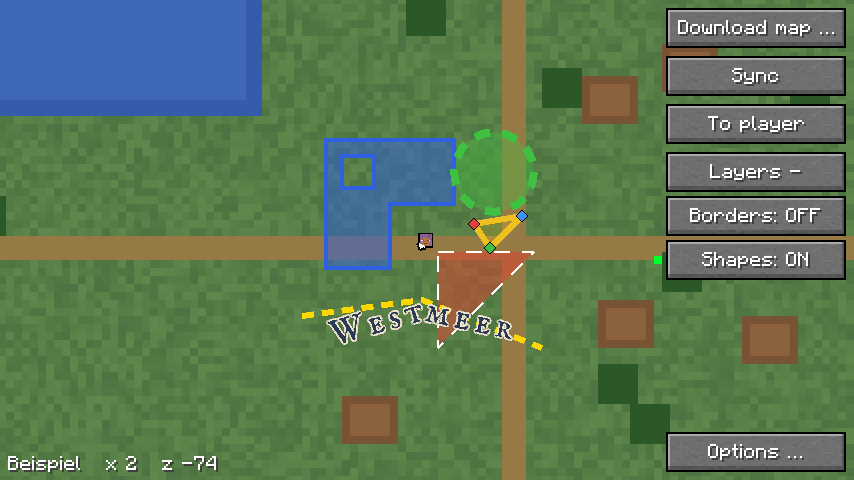
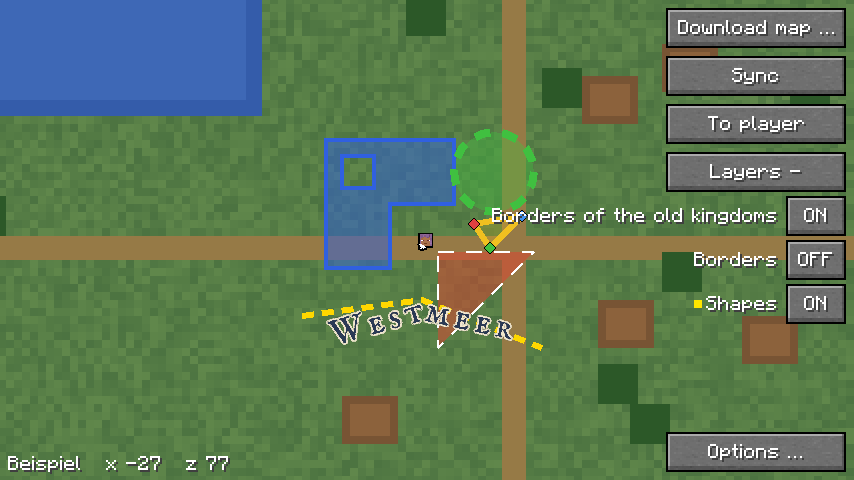
Ebenen auf der Vollbildkarte: Name als Überschrift, der Knopf schaltet nur (mod#103)
Je Ebene rechts ein Knopf „An“/„Aus“, links davor ihr Name als Text. Ein
Doppelklick auf den Namen heftet alles der Ebene an oder löst es; der Knopf
schaltet nur, der Doppelklick darauf heftet nichts mehr an.

Changed region(s): [[0.5785, 0.4062, 1.0, 0.6875], [0.1522, 0.9375, 0.274, 1.0]]

diff --git a/src/main/java/com/nekyia/heroicmap/Karte.java b/src/main/java/com/nekyia/heroicmap/Karte.java
@@ -40,6 +40,8 @@ final class Karte extends Screen {
     private static final int TEXT = 0xFFFFFFFF;
     /** Breite der Knöpfe in Einheiten des GUI. */
     private static final int KNOPF = 90;
+    /** Breite des Knopfs „An“/„Aus“ einer Ebene; ihr Name steht links daneben. */
+    private static final int AN_AUS = 30;
     /** Höhe eines Eintrags im Menü nach Rechtsklick. */
     private static final int ZEILE = 14;
     /** Abstand der Marken vom Rand des Schirms; Platz für den Namen über einem Kopf. */
@@ -136,11 +138,11 @@ final class Karte extends Screen {
     /** Für welche Schalter alles angeheftet ist, gerechnet bei diesem Stand der Ebenen und der Wegpunkte. */
     private boolean[] ganz = new boolean[0];
     private int ganzEbenen = -1, ganzWegpunkte = -1;
-    /** Der Schalter unter dem letzten Klick; ein Doppelklick darauf heftet die ganze Ebene an. */
+    /** Die Ebene unter dem letzten Klick auf eine Überschrift; ein Doppelklick darauf heftet die ganze Ebene an. */
     private Schalter letzterSchalter;
 
-    /** Ein Schalter der Liste und die Kennung seiner Ebene. */
-    private record Schalter(CycleButton<Boolean> knopf, String ebene) {
+    /** Eine Zeile der Liste: der Knopf „An“/„Aus“, die Kennung seiner Ebene und ihr Name, die Überschrift links davor. */
+    private record Schalter(CycleButton<Boolean> knopf, String ebene, Component name) {
     }
 
     /** {@code satz} ist null, wenn für diese Dimension nichts geladen ist. */
@@ -194,8 +196,9 @@ final class Karte extends Screen {
     }
 
     /**
-     * Der Knopf „Ebenen“ unter {@code ueber}, ist die Liste offen, darunter je Ebene ein Schalter, die
-     * oberste zuerst, bis über „Optionen …“; passen nicht alle, führt der letzte zu „Ebenen …“. Ohne
+     * Der Knopf „Ebenen“ unter {@code ueber}, ist die Liste offen, darunter je Ebene ein Knopf „An“/„Aus“
+     * mit dem Namen links davor, die oberste zuerst, bis über „Optionen …“; passen nicht alle, führt der
+     * letzte zu „Ebenen …“. Ohne
      * Ebenen kein Knopf. Gibt den untersten Knopf zurück. Siehe docs/vollbildkarte.md, „Ebenen“.
      */
     private AbstractWidget ebenen(int x, AbstractWidget ueber) {
@@ -222,9 +225,10 @@ final class Karte extends Screen {
         int n = alle.size() <= platz ? alle.size() : platz - 1;
         for (int i = 0; i < n; i++) {
             Ebenen.Eintrag e = alle.get(i);
-            CycleButton<Boolean> k = addRenderableWidget(CycleButton.onOffBuilder(Ebenen.INSTANZ.an(e)).create(x, unterster.getY() + 22, KNOPF, 20,
-                    Component.literal(e.name(deutsch)), (b, an) -> Ebenen.INSTANZ.setze(e.id(), an)));
-            schalter.add(new Schalter(k, e.id()));
+            Component name = Component.literal(e.name(deutsch));
+            CycleButton<Boolean> k = addRenderableWidget(CycleButton.onOffBuilder(Ebenen.INSTANZ.an(e)).displayOnlyValue()
+                    .create(x + KNOPF - AN_AUS, unterster.getY() + 22, AN_AUS, 20, name, (b, an) -> Ebenen.INSTANZ.setze(e.id(), an)));
+            schalter.add(new Schalter(k, e.id(), name));
             unterster = k;
         }
         if (n < alle.size()) {
@@ -245,8 +249,11 @@ final class Karte extends Screen {
         }
     }
 
-    /** Ein bunter Punkt links an jedem Schalter, dessen Ebene ganz angeheftet ist; neu gerechnet, wenn sich Ebenen oder Wegpunkte ändern. */
-    private void ganzAngeheftet(GuiGraphicsExtractor g) {
+    /**
+     * Die Überschriften der Liste, rechtsbündig vor ihrem Knopf; ein langer Name ragt nach links über die Karte.
+     * Vor einer Ebene, die ganz angeheftet ist, ein bunter Punkt; neu gerechnet, wenn sich Ebenen oder Wegpunkte ändern.
+     */
+    private void ueberschriften(GuiGraphicsExtractor g) {
         if (schalter.isEmpty()) {
             return;
         }
@@ -260,17 +267,26 @@ final class Karte extends Screen {
         }
         int bunt = Mth.hsvToArgb((System.currentTimeMillis() % BUNT_MS) / (float) BUNT_MS, 1f, 1f, 255);
         for (int i = 0; i < ganz.length; i++) {
+            Schalter s = schalter.get(i);
+            int[] r = ueberschrift(s);
+            g.text(font, s.name(), r[0] + 6, r[1] + 6, TEXT, true);
             if (ganz[i]) {
-                CycleButton<Boolean> k = schalter.get(i).knopf();
-                g.fill(k.getX() - 6, k.getY() + 8, k.getX() - 2, k.getY() + 12, bunt);
+                g.fill(r[0], r[1] + 8, r[0] + 4, r[1] + 12, bunt);
             }
         }
     }
 
-    /** Der Schalter der Liste unter (x, y), oder null. */
-    private Schalter schalterUnter(double x, double y) {
+    /** Wo die Überschrift einer Zeile liegt, samt Platz für den Punkt davor: x, y, Breite, Höhe. */
+    private int[] ueberschrift(Schalter s) {
+        CycleButton<Boolean> k = s.knopf();
+        int breite = font.width(s.name()) + 6;
+        return new int[] {k.getX() - 4 - breite, k.getY(), breite, k.getHeight()};
+    }
+
+    /** Die Zeile, deren Überschrift unter (x, y) liegt, oder null. */
+    private Schalter ueberschriftUnter(double x, double y) {
         for (Schalter s : schalter) {
-            if (s.knopf().isMouseOver(x, y)) {
+            if (drin(ueberschrift(s), x, y)) {
                 return s;
             }
         }
@@ -334,7 +350,7 @@ final class Karte extends Screen {
                     : Component.translatable("heroicmap.karte.abgleich_ab", Downloads.uhr(ab)));
         }
         super.extractRenderState(g, mausX, mausY, delta);
-        ganzAngeheftet(g);
+        ueberschriften(g);
         if (haengt != null) {
             // Der Wegpunkt, der an der Maus hängt, unter dem Zeiger.
             Minimap.wegpunkt(g, mausX, mausY, Minimap.KOPF, Wegpunkte.FARBEN[haengt.farbe()], 0);
@@ -503,6 +519,18 @@ final class Karte extends Screen {
             b = Math.max(b, font.width(e.text()));
         }
         return b + 8;
+    }
+
+    /** Für die Gametests: die Mitte des Knopfs „An“/„Aus“ und die der Überschrift der Ebene {@code ebene}, oder null. */
+    double[] zeile(String ebene) {
+        for (Schalter s : schalter) {
+            if (s.ebene().equals(ebene)) {
+                int[] u = ueberschrift(s);
+                CycleButton<Boolean> k = s.knopf();
+                return new double[] {k.getX() + k.getWidth() / 2.0, k.getY() + k.getHeight() / 2.0, u[0] + u[2] / 2.0, u[1] + u[3] / 2.0};
+            }
+        }
+        return null;
     }
 
     /** Für die Gametests: Stufe und Lupe, oder null ohne Satz. */
@@ -747,20 +775,21 @@ final class Karte extends Screen {
             klickVerbraucht = true;
             return true;
         }
-        // Der erste Klick eines Doppelklicks auf einen Schalter schaltete die Ebene um; der zweite schaltet
-        // zurück und heftet alles von ihr an oder löst es. Siehe docs/vollbildkarte.md, „Ebenen“.
-        Schalter s = taste ? schalterUnter(e.x(), e.y()) : null;
-        if (s != null && doppelt && s.equals(vorigerSchalter)) {
-            s.knopf().setValue(!s.knopf().getValue());
-            Ebenen.INSTANZ.setze(s.ebene(), s.knopf().getValue());
-            int uebrig = Wegpunkte.INSTANZ.alleUmschalten(Ebenen.INSTANZ, s.ebene());
-            if (uebrig > 0) {
-                hinweis = Component.translatable("heroicmap.karte.ebene_voll", uebrig, Wegpunkte.MAX_ANGEHEFTET, Wegpunkte.MAX_NADELN_ANGEHEFTET);
+        // Ein Doppelklick auf die Überschrift einer Ebene heftet alles von ihr an oder löst es; ein Klick darauf
+        // tut nichts und zieht die Karte nicht. Der Knopf daneben schaltet nur. Siehe docs/vollbildkarte.md, „Ebenen“.
+        Schalter s = taste ? ueberschriftUnter(e.x(), e.y()) : null;
+        if (s != null) {
+            if (doppelt && s.equals(vorigerSchalter)) {
+                int uebrig = Wegpunkte.INSTANZ.alleUmschalten(Ebenen.INSTANZ, s.ebene());
+                if (uebrig > 0) {
+                    hinweis = Component.translatable("heroicmap.karte.ebene_voll", uebrig, Wegpunkte.MAX_ANGEHEFTET, Wegpunkte.MAX_NADELN_ANGEHEFTET);
+                }
+            } else {
+                letzterSchalter = s;
             }
             klickVerbraucht = true;
             return true;
         }
-        letzterSchalter = s;
         if (super.mouseClicked(e, doppelt)) {
             return true;
         }

diff --git a/src/gametest/java/com/nekyia/heroicmap/Bedienung.java b/src/gametest/java/com/nekyia/heroicmap/Bedienung.java
@@ -561,9 +561,10 @@ public final class Bedienung implements FabricClientGameTest {
 
     /**
      * Die Liste der Ebenen wie ein Spieler: Kommen Ebenen, während die Karte offen ist, erscheint der Knopf
-     * „Ebenen“; ein Klick klappt die Liste auf. Ein Klick auf einen Schalter schaltet die Ebene aus, ein
-     * zweiter wieder an; ein Doppelklick lässt sie an und heftet alles mit id an, ein zweiter löst es.
-     * Zuletzt klappt der Knopf die Liste wieder zu. Siehe docs/vollbildkarte.md, „Ebenen“.
+     * „Ebenen“; ein Klick klappt die Liste auf. Ein Klick auf „An“/„Aus“ schaltet die Ebene aus, ein zweiter
+     * wieder an, und ein Doppelklick darauf schaltet nur zweimal; angeheftet wird dabei nichts. Ein Doppelklick
+     * auf die Überschrift heftet alles mit id an, ein zweiter löst es; die Ebene bleibt an. Zuletzt klappt der
+     * Knopf die Liste wieder zu. Siehe docs/vollbildkarte.md, „Ebenen“ (mod#103).
      */
     private static void ebenen(ClientGameTestContext context, TestInput maus, int k) {
         context.runOnClient(mc -> {
@@ -581,29 +582,30 @@ public final class Bedienung implements FabricClientGameTest {
         if (!context.computeOnClient(mc -> Kartenlage.ebenenOffen(Downloads.weltOrdner()))) {
             throw new AssertionError("Der Knopf „Ebenen“ merkte die offene Liste nicht");
         }
-        double[] s = context.computeOnClient(mc -> {
-            for (Object kind : mc.gui.screen().children()) {
-                if (kind instanceof AbstractWidget w && w.getMessage().getString().startsWith("Liste")) {
-                    return new double[] {w.getX() + w.getWidth() / 2.0, w.getY() + w.getHeight() / 2.0};
-                }
-            }
-            throw new AssertionError("Kein Schalter der Ebene in der Liste");
-        });
+        double[] zeile = context.computeOnClient(mc -> ((Karte) mc.gui.screen()).zeile("test:liste"));
+        if (zeile == null) {
+            throw new AssertionError("Keine Zeile der Ebene in der Liste");
+        }
+        double[] knopf = {zeile[0], zeile[1]}, ueberschrift = {zeile[2], zeile[3]};
         for (boolean an : new boolean[] {false, true}) {
-            klicke(context, maus, k, s, false);
-            if (ebeneAn(context) != an) {
-                throw new AssertionError("Ein Klick auf den Schalter: Ebene an " + !an + " statt " + an);
+            klicke(context, maus, k, knopf, false);
+            if (ebeneAn(context) != an || !keinsAngeheftet(context)) {
+                throw new AssertionError("Ein Klick auf „An/Aus“: Ebene an " + ebeneAn(context) + " statt " + an
+                        + ", nichts angeheftet " + keinsAngeheftet(context));
             }
         }
+        // Ein Doppelklick auf den Knopf schaltet nur, aus und wieder an; er heftet nichts an (mod#103).
+        klicke(context, maus, k, knopf, true);
+        if (!ebeneAn(context) || !keinsAngeheftet(context)) {
+            throw new AssertionError("Doppelklick auf „An/Aus“: Ebene an " + ebeneAn(context) + ", nichts angeheftet " + keinsAngeheftet(context));
+        }
         for (boolean ganz : new boolean[] {true, false}) {
-            klicke(context, maus, k, s, true);
-            boolean jetzt = context.computeOnClient(mc -> Wegpunkte.INSTANZ.angeheftet("test:liste", "see")
+            klicke(context, maus, k, ueberschrift, true);
+            boolean alles = context.computeOnClient(mc -> Wegpunkte.INSTANZ.angeheftet("test:liste", "see")
                     && Wegpunkte.INSTANZ.nadelAngeheftet("test:liste", "hafen"));
-            boolean keins = context.computeOnClient(mc -> !Wegpunkte.INSTANZ.angeheftet("test:liste", "see")
-                    && !Wegpunkte.INSTANZ.nadelAngeheftet("test:liste", "hafen"));
-            if (!ebeneAn(context) || (ganz ? !jetzt : !keins)) {
-                throw new AssertionError("Doppelklick auf den Schalter: an " + ebeneAn(context) + ", Kreis und Nadel angeheftet "
-                        + jetzt + " statt " + ganz);
+            if (!ebeneAn(context) || (ganz ? !alles : !keinsAngeheftet(context))) {
+                throw new AssertionError("Doppelklick auf die Überschrift: an " + ebeneAn(context) + ", Kreis und Nadel angeheftet "
+                        + alles + " statt " + ganz);
             }
         }
         klicke(context, maus, k, knopf(context, "heroicmap.karte.ebenen_zu"), false);
@@ -612,6 +614,11 @@ public final class Bedienung implements FabricClientGameTest {
         }
         context.runOnClient(mc -> Ebenen.INSTANZ.leeren());
         context.waitTicks(2);
+    }
+
+    private static boolean keinsAngeheftet(ClientGameTestContext context) {
+        return context.computeOnClient(mc -> !Wegpunkte.INSTANZ.angeheftet("test:liste", "see")
+                && !Wegpunkte.INSTANZ.nadelAngeheftet("test:liste", "hafen"));
     }
 
     private static boolean ebeneAn(ClientGameTestContext context) {

diff --git a/src/gametest/java/com/nekyia/heroicmap/Bilder.java b/src/gametest/java/com/nekyia/heroicmap/Bilder.java
@@ -683,7 +683,8 @@ public final class Bilder implements FabricClientGameTest {
             Ebenen.INSTANZ.empfange(JsonParser.parseString("""
                     {"v":1,"typ":"ebenen","jetzt":1,"ebenen":[{"id":"test:formen","name":{"de":"Formen","en":"Shapes"},
                       "visible":true,"order":1,"version":"1"},{"id":"test:grenzen","name":{"de":"Grenzen","en":"Borders"},
-                      "visible":false,"order":2,"version":"1"}]}""").getAsJsonObject());
+                      "visible":false,"order":2,"version":"1"},{"id":"test:lang","name":{"de":"Grenzen der alten Königreiche",
+                      "en":"Borders of the old kingdoms"},"visible":true,"order":3,"version":"1"}]}""").getAsJsonObject());
             Ebenen.Teil t = Ebenen.Teil.lies(FORMEN);
             if (t == null || t.formen().size() != 5) {
                 throw new AssertionError("Teil der Formen nicht lesbar");
@@ -720,7 +721,8 @@ public final class Bilder implements FabricClientGameTest {
         context.runOnClient(mc -> mc.gui.setScreen(new Karte(Satz.lies(baum))));
         context.waitTicks(40);
         Path karte = context.takeScreenshot(TestScreenshotOptions.of("formen-karte").disableCounterPrefix());
-        // Dieselbe Karte mit offener Liste der Ebenen: „Formen“ an und ganz angeheftet, „Grenzen“ aus (docs/vollbildkarte.md, „Ebenen“).
+        // Dieselbe Karte mit offener Liste der Ebenen: „Formen“ an und ganz angeheftet, „Grenzen“ aus, dazu ein langer Name,
+        // der nach links über die Karte ragt (docs/vollbildkarte.md, „Ebenen“).
         context.runOnClient(mc -> {
             Kartenlage.ebenenOffen(Downloads.weltOrdner(), true);
             mc.gui.setScreen(new Karte(Satz.lies(baum)));

diff --git a/docs/vollbildkarte.md b/docs/vollbildkarte.md
@@ -43,7 +43,8 @@ sagt sie das und zeigt nichts.
 | Knopf „Abgleich“ | fragt einen Abgleich des gezeigten Satzes an, wie `/hmap abgleich`; nur mit einem Satz vom Server, nicht auf der selbst gezeichneten Karte. Lehnt der Server mit `wieder` ab, ist der Knopf bis dahin aus und nennt die Uhrzeit |
 | Knopf „Zum Spieler“ | legt den eigenen Spieler in die Mitte, für den Fall, dass man sich verirrt hat, wie auf der Webkarte; Stufe und Lupe bleiben (mod#75) |
 | Knopf „Ebenen +“ unter „Zum Spieler“ | klappt die Liste der Ebenen auf, „Ebenen -“ wieder zu; nur, wenn der Server Ebenen schickt, siehe „Ebenen“ (mod#76) |
-| Klick, Doppelklick auf einen Schalter der Liste | schaltet die Ebene an oder aus; ein Doppelklick lässt sie, wie sie war, und heftet alles von ihr an oder löst es, siehe „Ebenen“ |
+| Klick auf „An“/„Aus“ in der Liste | schaltet die Ebene an oder aus, sonst nichts, siehe „Ebenen“ |
+| Doppelklick auf den Namen einer Ebene in der Liste | heftet alles von ihr an die Minimap oder löst es, siehe „Ebenen“ |
 | Knopf „Optionen …“ unten rechts | öffnet das Menü von `/hmap`, siehe [Minimap](minimap.md), „Bedienung“; „Fertig“ und `Esc` führen von dort zurück auf die Karte, an dieselbe Stelle (mod#75) |
 | `Esc` | bricht zuerst eine Form ab, die der Spieler aus Wegpunkten baut, sonst schliesst es die Karte |
 
@@ -90,36 +91,42 @@ Karte jedes Mal beim Spieler, und man musste wieder herauszoomen.
 
 ### Ebenen
 
-Auf der Vollbildkarte ein Schalter je Ebene, wie „Ebenen“ auf der
-Webkarte, so will es der User (mod#76). Ein Doppelklick heftet die ganze
-Ebene an.
+Auf der Vollbildkarte je Ebene ihr Name und ein Knopf „An“/„Aus“, wie
+„Ebenen“ auf der Webkarte, so will es der User (mod#76). Ein Doppelklick
+auf den Namen heftet die ganze Ebene an (mod#103).
 
-![Vollbildkarte mit offener Liste der Ebenen: „Formen“ an und ganz angeheftet, mit dem bunten Punkt, „Grenzen“ aus; Szene `formen` des Gametests](bilder/ebenen-liste.png)
+![Vollbildkarte mit offener Liste der Ebenen: „Formen“ an und ganz angeheftet, mit dem bunten Punkt vor dem Namen, „Grenzen“ aus, „Grenzen der alten Königreiche“ an, ragt nach links über die Karte; Szene `formen` des Gametests](bilder/ebenen-liste.png)
 
 - **Knopf „Ebenen +“** unter „Zum Spieler“, nur, wenn der Server Ebenen
   schickt (`Karte.ebenen`). Er klappt die Liste auf, „Ebenen -“ klappt sie
   zu. Beim ersten Öffnen ist sie zu; offen oder zu merkt sich die Karte in
   `karte.properties` unter `ebenen`, siehe „Lage merken“
   (`Kartenlage.ebenenOffen`).
-- **Liste:** je Ebene ein Schalter mit ihrem Namen in der Sprache des
-  Spiels und „An“ oder „Aus“, die oberste zuerst, wie im Untermenü „Ebenen
-  …“, siehe [Ebenen](ebenen.md), „Umschalten“; dieselbe Wahl. Die Liste
+- **Liste:** je Ebene eine Zeile, die oberste zuerst, wie im Untermenü
+  „Ebenen …“, siehe [Ebenen](ebenen.md), „Umschalten“; dieselbe Wahl.
+  Rechts der Knopf „An“ oder „Aus“, 30 Einheiten breit (`Karte.AN_AUS`),
+  links davor der Name in der Sprache des Spiels als Überschrift, weiss
+  mit Schatten, rechtsbündig. Ein langer Name ragt nach links über die
+  Karte, statt abgeschnitten zu werden. Die Liste
   reicht bis über „Optionen …“; passen nicht alle, führt der letzte Knopf
   „Weitere …“ zum Untermenü. Kommen andere Ebenen, während die Karte offen
   ist, baut sie die Liste neu (`Karte.tick`).
-- **Klick** auf einen Schalter schaltet die Ebene an oder aus.
-- **Doppelklick:** Der erste Klick schaltet um, der zweite zurück; so
-  bleibt die Ebene, wie sie war. Dazu heftet der zweite alles von ihr an,
-  was sich anheften lässt, Flächen, Kreise, Nadeln und Banner mit `id`,
-  siehe [Wegpunkte](wegpunkte.md), „Anheften“; ist schon alles
-  angeheftet, löst er alles (`Wegpunkte.alleUmschalten`).
+- **Klick** auf „An“/„Aus“ schaltet die Ebene an oder aus, sonst nichts;
+  ein Doppelklick darauf schaltet zweimal.
+- **Doppelklick auf den Namen** heftet alles von der Ebene an, was sich
+  anheften lässt, Flächen, Kreise, Nadeln und Banner mit `id`, siehe
+  [Wegpunkte](wegpunkte.md), „Anheften“; ist schon alles angeheftet, löst
+  er alles (`Wegpunkte.alleUmschalten`). Ein Klick auf den Namen tut
+  nichts und zieht die Karte nicht. Bis 0.2.26 lag das Anheften auf dem
+  Doppelklick auf den Schalter, der dabei aus- und wieder anschaltete und
+  flackerte; so wollte es der User nicht mehr (mod#103).
 - **Grenzen:** Die 64 Flächen und Kreise und die 64 Nadeln und Banner
   gelten weiter. Was nicht mehr passt, bleibt los, und unten links steht
   „3 nicht angeheftet: höchstens 64 Regionen und 64 Nadeln und Banner“.
   Dann ist die Ebene nicht ganz angeheftet, und ein weiterer Doppelklick
   löst nichts, sondern heftet wieder an, was passt. Lösen geht dann je
   Objekt.
-- **Bunter Punkt** links am Schalter, wenn alles Anheftbare der Ebene
+- **Bunter Punkt** vor dem Namen, wenn alles Anheftbare der Ebene
   angeheftet ist, in der Farbe des Rings angehefteter Marken
   (`Karte.BUNT_MS`); eine Ebene ohne etwas mit `id` bekommt keinen
   (`Wegpunkte.ganzAngeheftet`). Neu gerechnet nur, wenn sich Ebenen oder

diff --git a/docs/entwicklung.md b/docs/entwicklung.md
@@ -100,7 +100,7 @@ er den Server-Fall mit einer Zeile im Log, so auch in der CI.
 |---|---|
 | `Anmeldung` | die Reihenfolge beim Login: Beim ersten Level gibt es den Spieler noch nicht, wohl aber die Verbindung des Levels, aus der `Downloads.server` liest, siehe [Download](download.md), „Ablage“ |
 | `Bilder` | baut eine Szene und nimmt die Minimap auf, danach das Menü und die Vollbildkarte aus einem Testsatz mit zwei Wegpunkten, das Untermenü „Einstellungen …“, jeden Rahmen eckig und rund und das Menü mit Rahmen, die drehende Minimap, das ganze Fenster bei 854 × 480 und 1280 × 720 mit der Seite im Verhältnis, die Szene `formen` mit Flächen, Kreis, Linie und Kartenschrift und der offenen Liste der Ebenen, die Szene `orte` mit Nadeln, einem Banner und ihren Namen, gleich gross auf zwei Stufen der Vollbildkarte, und „Unicode-Schrift erzwingen“, das die Generation der Kartenschrift hebt, zuletzt die selbst gezeichnete Karte der Szene, in der Einzelspielerwelt mit 2 px gewählt über die Knöpfe und den Umschalter, neben der Minimap, die als beschäftigt gilt, auch mit Chunklinien; mit `-Pbilder=<ordner>` landen die Bilder dort, siehe [Minimap](minimap.md), „Bilder“, und [Vollbildkarte](vollbildkarte.md), „Bild“; ein Banner mit Entwurf und Krone als Sprite um seinen Fuss, am Bildschirmfoto geprüft; ein Banner einer geheimen Ebene, dessen Sprite über den Kanal kommt, am Bildschirmfoto um seinen Fuss |
-| `Bedienung` | leert zu Beginn den Ordner der Einzelspielerwelt (`Bilder.leereWelt`), wie `Bilder`; das Menü und die Vollbildkarte mit echten Eingaben der Maus (`TestInput`): im Menü verschiebt Ziehen mit der linken wie der rechten Taste die ganze Minimap; auf der Karte verschiebt links ziehen den Inhalt, ein Linksklick öffnet kein Menü, ein Rechtsklick öffnet „Hierher teleportieren“, ein Klick darauf teleportiert; Wegpunkte setzen, ziehen und klicken auf Marken am Rand, Doppelklick, Wegpunkt am eigenen Standort, einen Kreis und eine Nadel vom Server und ein altes Rechteck anheften; eine Region und eine Linie aus Wegpunkten bauen, die Region per Doppelklick anheften und löschen; die Liste der Ebenen aufklappen, eine Ebene aus- und anschalten, per Doppelklick ganz anheften und lösen, zuklappen; Menü und Untermenü bei 1280 × 720 und GUI-Massstab 3; siehe [Minimap](minimap.md), „Bedienung“, [Vollbildkarte](vollbildkarte.md), „Bedienung“, und [Wegpunkte](wegpunkte.md), „Tests“ |
+| `Bedienung` | leert zu Beginn den Ordner der Einzelspielerwelt (`Bilder.leereWelt`), wie `Bilder`; das Menü und die Vollbildkarte mit echten Eingaben der Maus (`TestInput`): im Menü verschiebt Ziehen mit der linken wie der rechten Taste die ganze Minimap; auf der Karte verschiebt links ziehen den Inhalt, ein Linksklick öffnet kein Menü, ein Rechtsklick öffnet „Hierher teleportieren“, ein Klick darauf teleportiert; Wegpunkte setzen, ziehen und klicken auf Marken am Rand, Doppelklick, Wegpunkt am eigenen Standort, einen Kreis und eine Nadel vom Server und ein altes Rechteck anheften; eine Region und eine Linie aus Wegpunkten bauen, die Region per Doppelklick anheften und löschen; die Liste der Ebenen aufklappen, eine Ebene mit „An/Aus“ aus- und anschalten, auch per Doppelklick, ohne dass etwas angeheftet wird, per Doppelklick auf den Namen ganz anheften und lösen, zuklappen; Menü und Untermenü bei 1280 × 720 und GUI-Massstab 3; siehe [Minimap](minimap.md), „Bedienung“, [Vollbildkarte](vollbildkarte.md), „Bedienung“, und [Wegpunkte](wegpunkte.md), „Tests“ |
 | `Blockentities` | Truhe, Tür, Schild und Kopf, im Einzelspieler und mit `-Peula` auf einem Server des Tests gesetzt und abgebaut wie ein Spieler, mit Rechts- und Linksklick; die Minimap zeigt sie ohne weiteres Zutun, verglichen am Bildschirmfoto an der Stelle des Blocks. Mit Sodium über `-Pzusatzmods`; siehe [Minimap](minimap.md), „Neu zeichnen“ |
 | `Spieler` | der eigene Spieler auf der Minimap als Kopf mit Pfeil, nur Pfeil und Kopf halb durchsichtig, je bei GUI-Massstab 1, 2 und 3, gedreht und ungedreht: der Pfeil waagrecht mittig, höchstens 0,5 px daneben, am Bildschirmfoto; mit `-Pbilder=<ordner>` die drei Darstellungen als Bild, siehe [Minimap](minimap.md), „Spieler“ |
 | `Messung` | nur mit `-Pmessung=<datei>`: Zeit je Chunk und Frametime mit und ohne Minimap, siehe [Minimap](minimap.md), „Kosten“ |

diff --git a/CHANGELOG.md b/CHANGELOG.md
@@ -4,6 +4,10 @@ What changed in the Heroic Map mod, one section per version, newest first.
 The release notes on GitHub and Modrinth come from here
 (`.github/notizen.sh`); write them in English.
 
+## 0.2.27
+
+- **Layers on the full map: the name is a heading, the button only switches.** Each layer shows its name with an "On"/"Off" button next to it. A click on the button turns the layer on or off and does nothing else; a double click on the name pins everything of the layer to the minimap, another one unpins it. Before, the double click went on the switch and made it flicker.
+
 ## 0.2.26
 
 - **The arrow sits centred above your head** on the minimap and the full map; before, it stood about half a head pixel to the right.

diff --git a/docs/ebenen.md b/docs/ebenen.md
@@ -636,7 +636,7 @@ hat. Auf der Minimap gibt es keine Tafel, wie im Format.
   Passen nicht alle auf den Schirm, blättern `<` und `>`. Ohne Ebenen
   steht dort „Der Server schickt keine Ebenen.“
 - **Auf der Vollbildkarte** dieselbe Wahl in einer Liste unter dem Knopf
-  „Ebenen +“; ein Doppelklick heftet dort die ganze Ebene an, siehe
+  „Ebenen +“; ein Doppelklick auf ihren Namen heftet dort die ganze Ebene an, siehe
   [Vollbildkarte](vollbildkarte.md), „Ebenen“ (mod#76).
 - **Vorgabe** ist `visible` der Ebene; die Wahl des Spielers geht vor.
 - **Gespeichert** gleich beim Umschalten, in `ebenen.properties` im Ordner
